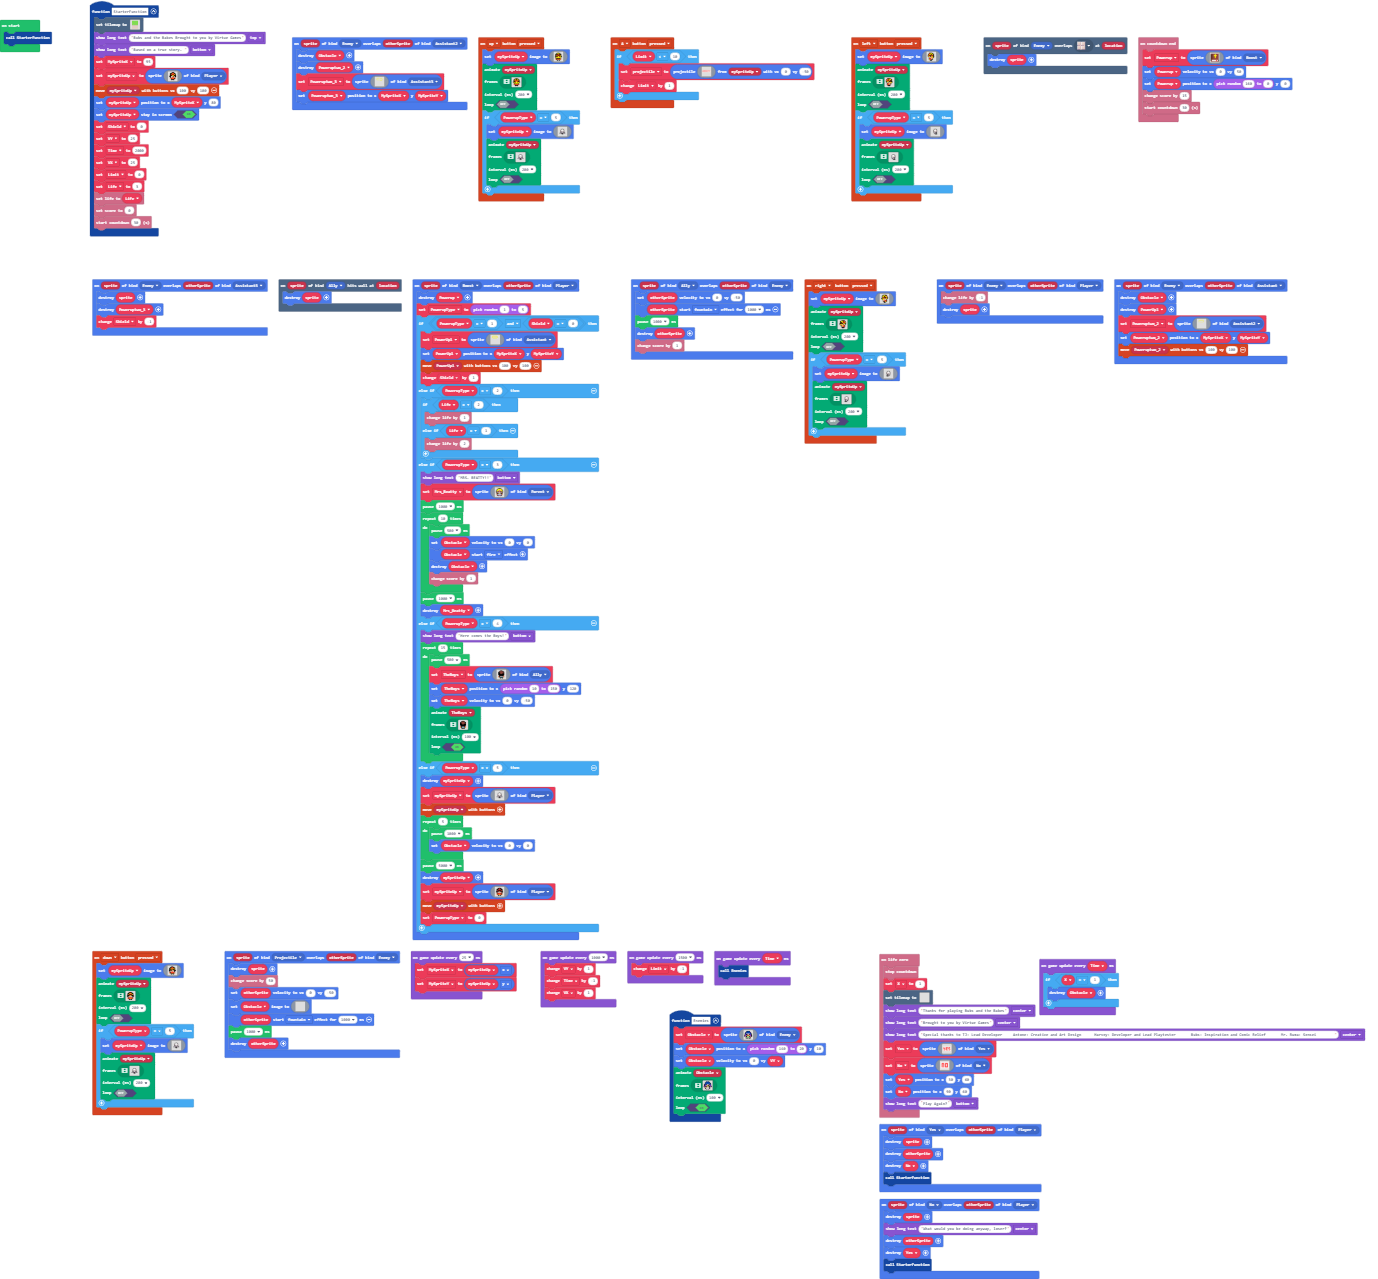
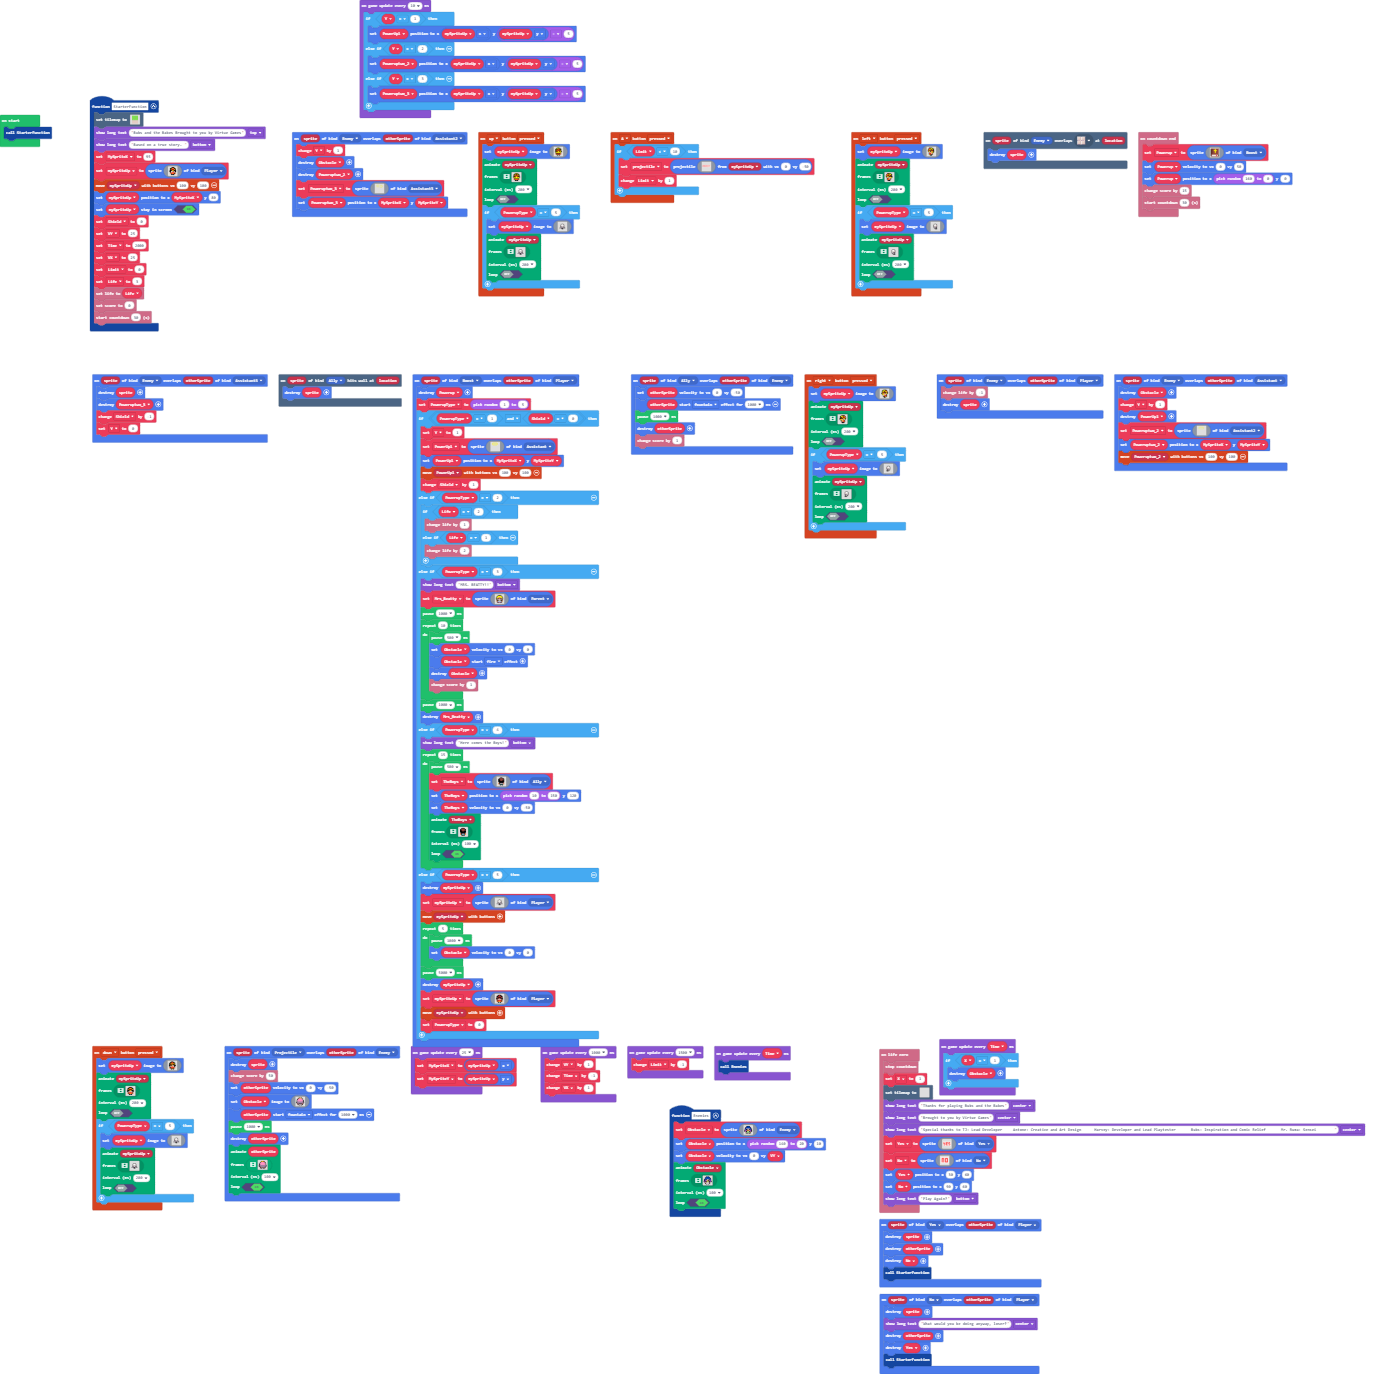
Update images.g.jres, images.g.ts, main.blocks, main.ts

Changed region(s): [[0.0624, 0.0, 0.9361, 0.8843], [0.6241, 0.7318, 0.9985, 1.0], [0.0, 0.0, 0.0312, 0.122]]

diff --git a/main.ts b/main.ts
@@ -10,6 +10,7 @@ namespace SpriteKind {
     export const No = SpriteKind.create()
 }
 sprites.onOverlap(SpriteKind.Enemy, SpriteKind.Assistant2, function (sprite, otherSprite) {
+    Y += 1
     Obstacle.destroy()
     Poweruptwo_2.destroy()
     Poweruptwo_3 = sprites.create(img`
@@ -637,6 +638,7 @@ sprites.onOverlap(SpriteKind.Enemy, SpriteKind.Assistant3, function (sprite, oth
     sprite.destroy()
     Poweruptwo_3.destroy()
     Shield += -1
+    Y = 0
 })
 sprites.onOverlap(SpriteKind.No, SpriteKind.Player, function (sprite, otherSprite) {
     sprite.destroy()
@@ -652,6 +654,7 @@ sprites.onOverlap(SpriteKind.Boost, SpriteKind.Player, function (sprite, otherSp
     Powerup.destroy()
     PowerupType = randint(1, 5)
     if (PowerupType == 1 && Shield == 0) {
+        Y = 1
         PowerUp1 = sprites.create(img`
             .....555555555555..1...
             .1..55555555555555.....
@@ -1048,6 +1051,7 @@ sprites.onOverlap(SpriteKind.Enemy, SpriteKind.Player, function (sprite, otherSp
 })
 sprites.onOverlap(SpriteKind.Enemy, SpriteKind.Assistant, function (sprite, otherSprite) {
     Obstacle.destroy()
+    Y += 1
     PowerUp1.destroy()
     Poweruptwo_2 = sprites.create(img`
         ......................
@@ -1340,26 +1344,100 @@ sprites.onOverlap(SpriteKind.Projectile, SpriteKind.Enemy, function (sprite, oth
     info.changeScoreBy(50)
     otherSprite.setVelocity(0, -50)
     Obstacle.setImage(img`
-        . . . . . . . . . . . . . . . . 
-        . . . . . . . . . . . . . . . . 
-        . . . . . . . . . . . . . . . . 
-        . . . . . . . . . . . . . . . . 
-        . . . . . . . . . . . . . . . . 
-        . . . . . . . . . . . . . . . . 
-        . . . . . . . . . . . . . . . . 
-        . . . . . . . . . . . . . . . . 
-        . . . . . . . . . . . . . . . . 
-        . . . . . . . . . . . . . . . . 
-        . . . . . . . . . . . . . . . . 
-        . . . . . . . . . . . . . . . . 
-        . . . . . . . . . . . . . . . . 
-        . . . . . . . . . . . . . . . . 
-        . . . . . . . . . . . . . . . . 
-        . . . . . . . . . . . . . . . . 
+        . . . . . f f 4 4 f f . . . . . 
+        . . . . f 5 4 5 5 4 5 f . . . . 
+        . . . f e 3 3 3 3 3 3 e f . . . 
+        . . f b 3 3 3 3 3 3 3 3 b f . . 
+        . . f 3 3 3 3 3 3 3 3 3 3 f . . 
+        . f 3 3 3 3 3 3 3 3 3 3 3 3 f . 
+        . f b 3 3 3 3 3 3 3 3 3 3 b f . 
+        . f b b 3 3 3 3 3 3 3 3 b b f . 
+        . f b b b b b b b b b b b b f . 
+        f c b b b b b b b b b b b b c f 
+        f b b b b b b b b b b b b b b f 
+        . f c c b b b b b b b b c c f . 
+        . . e 4 c f f f f f f c 4 e . . 
+        . . e f b d b d b d b b f e . . 
+        . . . f f 1 d 1 d 1 d f f . . . 
+        . . . . . f f b b f f . . . . . 
         `)
     otherSprite.startEffect(effects.fountain, 1000)
     pause(1000)
     otherSprite.destroy()
+    animation.runImageAnimation(
+    otherSprite,
+    [img`
+        . . . . . f f 4 4 f f . . . . . 
+        . . . . f 5 4 5 5 4 5 f . . . . 
+        . . . f e 3 3 3 3 3 3 e f . . . 
+        . . f b 3 3 3 3 3 3 3 3 b f . . 
+        . . f 3 3 3 3 3 3 3 3 3 3 f . . 
+        . f 3 3 3 3 3 3 3 3 3 3 3 3 f . 
+        . f b 3 3 3 3 3 3 3 3 3 3 b f . 
+        . f b b 3 3 3 3 3 3 3 3 b b f . 
+        . f b b b b b b b b b b b b f . 
+        f c b b b b b b b b b b b b c f 
+        f b b b b b b b b b b b b b b f 
+        . f c c b b b b b b b b c c f . 
+        . . e 4 c f f f f f f c 4 e . . 
+        . . e f b d b d b d b b f e . . 
+        . . . f f 1 d 1 d 1 d f f . . . 
+        . . . . . f f b b f f . . . . . 
+        `,img`
+        . . . . . . . . . . . . . . . . 
+        . . . . . f f 4 4 f f . . . . . 
+        . . . . f 5 4 5 5 4 5 f . . . . 
+        . . . f e 3 3 3 3 3 3 e f . . . 
+        . . f b 3 3 3 3 3 3 3 3 b f . . 
+        . . f 3 3 3 3 3 3 3 3 3 3 f . . 
+        . f b 3 3 3 3 3 3 3 3 3 3 b f . 
+        . f b b 3 3 3 3 3 3 3 3 b b f . 
+        . f b b b b b b b b b b b b f . 
+        f c b b b b b b b b b b b b f . 
+        f b b b b b b b b b b b b c f . 
+        f f b b b b b b b b b b c f . . 
+        . f c c c f f f f f f f e c . . 
+        . . . f b b d b d d e 4 4 e . . 
+        . . . f f 1 1 d 1 d e e f . . . 
+        . . . . . f b b f f f . . . . . 
+        `,img`
+        . . . . . f f 4 4 f f . . . . . 
+        . . . . f 5 4 5 5 4 5 f . . . . 
+        . . . f e 3 3 3 3 3 3 e f . . . 
+        . . f b 3 3 3 3 3 3 3 3 b f . . 
+        . . f 3 3 3 3 3 3 3 3 3 3 f . . 
+        . f 3 3 3 3 3 3 3 3 3 3 3 3 f . 
+        . f b 3 3 3 3 3 3 3 3 3 3 b f . 
+        . f b b 3 3 3 3 3 3 3 3 b b f . 
+        . f b b b b b b b b b b b b f . 
+        f c b b b b b b b b b b b b c f 
+        f b b b b b b b b b b b b b b f 
+        . f c c b b b b b b b b c c f . 
+        . . e 4 c f f f f f f c 4 e . . 
+        . . e f b d b d b d b b f e . . 
+        . . . f f 1 d 1 d 1 d f f . . . 
+        . . . . . f f b b f f . . . . . 
+        `,img`
+        . . . . . . . . . . . . . . . . 
+        . . . . . f f 4 4 f f . . . . . 
+        . . . . f 5 4 5 5 4 5 f . . . . 
+        . . . f e 3 3 3 3 3 3 e f . . . 
+        . . f b 3 3 3 3 3 3 3 3 b f . . 
+        . . f 3 3 3 3 3 3 3 3 3 3 f . . 
+        . f b 3 3 3 3 3 3 3 3 3 3 b f . 
+        . f b b 3 3 3 3 3 3 3 3 b b f . 
+        . f b b b b b b b b b b b b f . 
+        . f b b b b b b b b b b b b c f 
+        . f c b b b b b b b b b b b b f 
+        . . f c b b b b b b b b b b f f 
+        . . c e f f f f f f f c c c f . 
+        . . e 4 4 e d d b d b b f . . . 
+        . . . f e e d 1 d 1 1 f f . . . 
+        . . . . . f f f b b f . . . . . 
+        `],
+    100,
+    true
+    )
 })
 let X = 0
 let TheBoys: Sprite = null
@@ -1382,6 +1460,7 @@ let MySpriteX = 0
 let Poweruptwo_3: Sprite = null
 let Poweruptwo_2: Sprite = null
 let Obstacle: Sprite = null
+let Y = 0
 StarterFunction()
 game.onUpdateInterval(25, function () {
     MySpriteX = mySpriteUp.x
@@ -1391,6 +1470,15 @@ game.onUpdateInterval(1000, function () {
     VY += 1
     Time += -1
     VX += 1
+})
+game.onUpdateInterval(10, function () {
+    if (Y == 1) {
+        PowerUp1.setPosition(mySpriteUp.x, mySpriteUp.y - 5)
+    } else if (Y == 2) {
+        Poweruptwo_2.setPosition(mySpriteUp.x, mySpriteUp.y - 5)
+    } else if (Y == 3) {
+        Poweruptwo_3.setPosition(mySpriteUp.x, mySpriteUp.y - 5)
+    }
 })
 game.onUpdateInterval(1500, function () {
     Limit += -1

diff --git a/images.g.ts b/images.g.ts
@@ -284,24 +284,6 @@ f a a f f f d d d d f f f a a f
 ........................
 ........................
 `;
-            case "image54":return img`
-. . . . . . . . . . . . . . . . 
-. . . . . . . . . . . . . . . . 
-. . . . . . . . . . . . . . . . 
-. . . . . . . . . . . . . . . . 
-. . . . . . . . . . . . . . . . 
-. . . . . . . . . . . . . . . . 
-. . . . . . . . . . . . . . . . 
-. . . . . . . . . . . . . . . . 
-. . . . . . . . . . . . . . . . 
-. . . . . . . . . . . . . . . . 
-. . . . . . . . . . . . . . . . 
-. . . . . . . . . . . . . . . . 
-. . . . . . . . . . . . . . . . 
-. . . . . . . . . . . . . . . . 
-. . . . . . . . . . . . . . . . 
-. . . . . . . . . . . . . . . . 
-`;
             case "image55":return img`
 .....555555555555..1...
 .1..55555555555555.....
@@ -444,6 +426,24 @@ e 4 f b b b b b b f 4 e
 1 2 1 2 1 2 1 2 1 
 1 2 1 2 1 2 2 2 1 
 1 1 1 1 1 1 1 1 1 
+`;
+            case "image54":return img`
+. . . . . f f 4 4 f f . . . . . 
+. . . . f 5 4 5 5 4 5 f . . . . 
+. . . f e 3 3 3 3 3 3 e f . . . 
+. . f b 3 3 3 3 3 3 3 3 b f . . 
+. . f 3 3 3 3 3 3 3 3 3 3 f . . 
+. f 3 3 3 3 3 3 3 3 3 3 3 3 f . 
+. f b 3 3 3 3 3 3 3 3 3 3 b f . 
+. f b b 3 3 3 3 3 3 3 3 b b f . 
+. f b b b b b b b b b b b b f . 
+f c b b b b b b b b b b b b c f 
+f b b b b b b b b b b b b b b f 
+. f c c b b b b b b b b c c f . 
+. . e 4 c f f f f f f c 4 e . . 
+. . e f b d b d b d b b f e . . 
+. . . f f 1 d 1 d 1 d f f . . . 
+. . . . . f f b b f f . . . . . 
 `;
         }
         return null;
@@ -2444,6 +2444,75 @@ e 4 e f b b b b b f 4 .
 4 d d e d d d d d f 4 . 
 . 4 e e f f f f f f e . 
 . . . . . . . f f f . . 
+`];
+            case "anim1":return [img`
+. . . . . f f 4 4 f f . . . . . 
+. . . . f 5 4 5 5 4 5 f . . . . 
+. . . f e 3 3 3 3 3 3 e f . . . 
+. . f b 3 3 3 3 3 3 3 3 b f . . 
+. . f 3 3 3 3 3 3 3 3 3 3 f . . 
+. f 3 3 3 3 3 3 3 3 3 3 3 3 f . 
+. f b 3 3 3 3 3 3 3 3 3 3 b f . 
+. f b b 3 3 3 3 3 3 3 3 b b f . 
+. f b b b b b b b b b b b b f . 
+f c b b b b b b b b b b b b c f 
+f b b b b b b b b b b b b b b f 
+. f c c b b b b b b b b c c f . 
+. . e 4 c f f f f f f c 4 e . . 
+. . e f b d b d b d b b f e . . 
+. . . f f 1 d 1 d 1 d f f . . . 
+. . . . . f f b b f f . . . . . 
+`, img`
+. . . . . . . . . . . . . . . . 
+. . . . . f f 4 4 f f . . . . . 
+. . . . f 5 4 5 5 4 5 f . . . . 
+. . . f e 3 3 3 3 3 3 e f . . . 
+. . f b 3 3 3 3 3 3 3 3 b f . . 
+. . f 3 3 3 3 3 3 3 3 3 3 f . . 
+. f b 3 3 3 3 3 3 3 3 3 3 b f . 
+. f b b 3 3 3 3 3 3 3 3 b b f . 
+. f b b b b b b b b b b b b f . 
+f c b b b b b b b b b b b b f . 
+f b b b b b b b b b b b b c f . 
+f f b b b b b b b b b b c f . . 
+. f c c c f f f f f f f e c . . 
+. . . f b b d b d d e 4 4 e . . 
+. . . f f 1 1 d 1 d e e f . . . 
+. . . . . f b b f f f . . . . . 
+`, img`
+. . . . . f f 4 4 f f . . . . . 
+. . . . f 5 4 5 5 4 5 f . . . . 
+. . . f e 3 3 3 3 3 3 e f . . . 
+. . f b 3 3 3 3 3 3 3 3 b f . . 
+. . f 3 3 3 3 3 3 3 3 3 3 f . . 
+. f 3 3 3 3 3 3 3 3 3 3 3 3 f . 
+. f b 3 3 3 3 3 3 3 3 3 3 b f . 
+. f b b 3 3 3 3 3 3 3 3 b b f . 
+. f b b b b b b b b b b b b f . 
+f c b b b b b b b b b b b b c f 
+f b b b b b b b b b b b b b b f 
+. f c c b b b b b b b b c c f . 
+. . e 4 c f f f f f f c 4 e . . 
+. . e f b d b d b d b b f e . . 
+. . . f f 1 d 1 d 1 d f f . . . 
+. . . . . f f b b f f . . . . . 
+`, img`
+. . . . . . . . . . . . . . . . 
+. . . . . f f 4 4 f f . . . . . 
+. . . . f 5 4 5 5 4 5 f . . . . 
+. . . f e 3 3 3 3 3 3 e f . . . 
+. . f b 3 3 3 3 3 3 3 3 b f . . 
+. . f 3 3 3 3 3 3 3 3 3 3 f . . 
+. f b 3 3 3 3 3 3 3 3 3 3 b f . 
+. f b b 3 3 3 3 3 3 3 3 b b f . 
+. f b b b b b b b b b b b b f . 
+. f b b b b b b b b b b b b c f 
+. f c b b b b b b b b b b b b f 
+. . f c b b b b b b b b b b f f 
+. . c e f f f f f f f c c c f . 
+. . e 4 4 e d d b d b b f . . . 
+. . . f e e d 1 d 1 1 f f . . . 
+. . . . . f f f b b f . . . . . 
 `];
         }
         return null;
